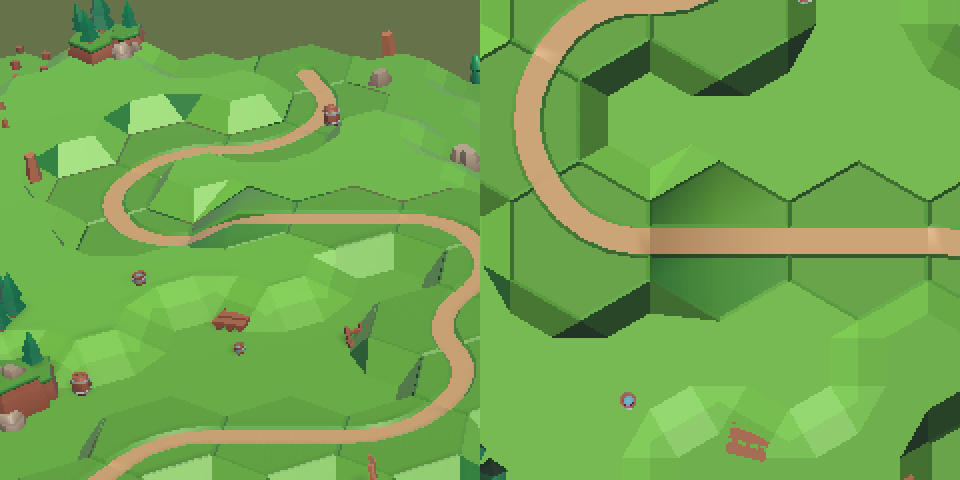
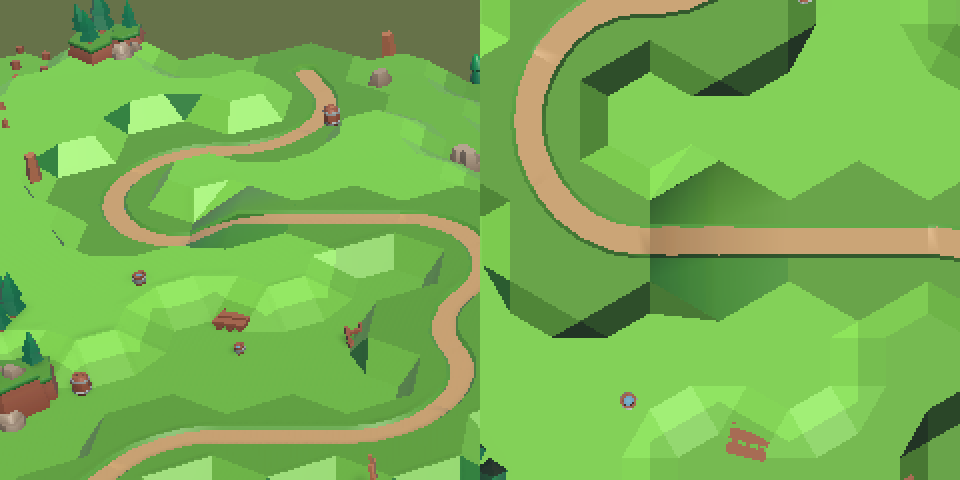
The road pieces meet their neighbours with no bevel line, and the shades take Sam's stronger ramp
Issue #348. Sam chose the stronger of the two ramps on the comparison sheet ("B, the stronger
one"): the lowest level in use at 0.70 of the grass's brightness, the highest at 1.30.

He then said: "I still dont like the black lines between the hexes". With the contour gone, the
lines were the KayKit road pieces' own rim. Every road piece's flat top stops at 1.097 of the
1.155 corner radius and a bevel drops 0.05 to the hex edge; lit at an angle, that bevel drew a
dark outline round every corridor hex and a groove between two of them. Scaling the piece out
hid the grooves but pushed the bevel past the edge, where it stood above the skin's slope down
from a raised road and showed as a dotted line in the match frame.

SeamlessPiece reshapes a copy of each piece instead: every vertex outside the flat top's hex is
pulled in beneath it, so the bevel becomes part of the side wall, and the whole piece is then
stretched so the flat top reaches the hex edge. Distances are measured hex-wise (the furthest of
the six edge normals), so a vertex on an edge and one on a corner move alike. Water has no bevel
and comes out unchanged. HexFloor builds one copy per piece kind and discards them with the floor.

EditMode 138/138, PlayMode 181/181.

diff --git a/client/Assets/Tests/PlayMode/HexFloorTests.cs b/client/Assets/Tests/PlayMode/HexFloorTests.cs
@@ -330,6 +330,49 @@ namespace Tests.PlayMode
         }
 
         [Test]
+        public void EveryPiecesFlatTopReachesTheHexEdgeAndNothingOfItPokesPast()
+        {
+            MatchRoot root = BuildPlayfield();
+            HexMap map = root.Map;
+            int pieces = 0;
+
+            for (int row = 0; row < map.Height; row++)
+            {
+                for (int column = 0; column < map.Width; column++)
+                {
+                    MeshRenderer piece = root.Floor.TileAt(column, row);
+
+                    if (piece == null)
+                    {
+                        continue;
+                    }
+
+                    Vector3[] vertices = piece.GetComponent<MeshFilter>().sharedMesh.vertices;
+                    float top = vertices.Max(vertex => vertex.y);
+                    Vector3 centre = HexGeometry.ToWorld(column, row);
+                    float reach = vertices
+                        .Where(vertex => vertex.y > top - 0.001f)
+                        .Select(vertex => piece.transform.TransformPoint(vertex) - centre)
+                        .Max(offset => new Vector2(offset.x, offset.z).magnitude);
+
+                    Assert.That(
+                        reach,
+                        Is.EqualTo(HexGeometry.Circumradius).Within(Tolerance),
+                        "the flat top of the piece at " + column + "," + row + " stops short of the hex edge");
+
+                    Assert.That(
+                        vertices.Max(vertex => SeamlessPiece.HexDistance(piece.transform.TransformPoint(vertex) - centre)),
+                        Is.LessThanOrEqualTo((HexGeometry.AcrossFlats / 2f) + Tolerance),
+                        "the piece at " + column + "," + row + " pokes past the hex edge");
+
+                    pieces++;
+                }
+            }
+
+            Assert.That(pieces, Is.GreaterThan(0), "the committed board stands no pieces");
+        }
+
+        [Test]
         public void EveryGroundCellIsDrawnInItsOwnLevelsShade()
         {
             MatchRoot root = BuildPlayfield();

diff --git a/client/Assets/View/HexFloor.cs b/client/Assets/View/HexFloor.cs
@@ -58,6 +58,8 @@ namespace View
 
         private Material[] _shades = System.Array.Empty<Material>();
 
+        private readonly Dictionary<TilePiece, Mesh> _seamless = new Dictionary<TilePiece, Mesh>();
+
         /// <summary>The map this floor was drawn from.</summary>
         public HexMap Map { get; private set; }
 
@@ -233,7 +235,7 @@ namespace View
                     cellObject.transform.SetParent(transform, worldPositionStays: false);
                     cellObject.transform.localPosition = centre + (Vector3.up * TileSet.FaceOffset);
                     cellObject.transform.localRotation = Quaternion.Euler(0f, -60f * choice.Rotation, 0f);
-                    cellObject.AddComponent<MeshFilter>().sharedMesh = tiles.MeshFor(choice.Piece);
+                    cellObject.AddComponent<MeshFilter>().sharedMesh = SeamlessMeshFor(tiles, choice.Piece);
 
                     var renderer = cellObject.AddComponent<MeshRenderer>();
                     renderer.shadowCastingMode = UnityEngine.Rendering.ShadowCastingMode.On;
@@ -245,6 +247,18 @@ namespace View
             }
 
             WorldBounds = new Bounds((min + max) * 0.5f, max - min);
+        }
+
+        private Mesh SeamlessMeshFor(TileSet tiles, TilePiece piece)
+        {
+            if (!_seamless.TryGetValue(piece, out Mesh mesh))
+            {
+                Mesh art = tiles.MeshFor(piece);
+                mesh = art != null ? SeamlessPiece.Of(art) : null;
+                _seamless[piece] = mesh;
+            }
+
+            return mesh;
         }
 
         private void Smooth(HexMap map, TileSet tiles, DressingSettings settings)
@@ -306,6 +320,11 @@ namespace View
             foreach (Material shade in _shades)
             {
                 Discard(shade);
+            }
+
+            foreach (Mesh piece in _seamless.Values)
+            {
+                Discard(piece);
             }
         }
 

diff --git a/client/Assets/View/SeamlessPiece.cs b/client/Assets/View/SeamlessPiece.cs
@@ -1,0 +1,59 @@
+using System.Linq;
+using UnityEngine;
+
+namespace View
+{
+    public static class SeamlessPiece
+    {
+        private const float TopFaceTolerance = 0.001f;
+
+        private const float HexEdge = HexGeometry.AcrossFlats / 2f;
+
+        public static Mesh Of(Mesh art)
+        {
+            Mesh piece = Object.Instantiate(art);
+            piece.name = art.name + " (seamless)";
+
+            Vector3[] vertices = piece.vertices;
+
+            if (vertices.Length == 0)
+            {
+                return piece;
+            }
+
+            float top = vertices.Max(vertex => vertex.y);
+            float topFaceEdge = vertices
+                .Where(vertex => vertex.y > top - TopFaceTolerance)
+                .Max(HexDistance);
+
+            for (int index = 0; index < vertices.Length; index++)
+            {
+                float distance = HexDistance(vertices[index]);
+                float pulledUnderTopFace = distance > topFaceEdge ? topFaceEdge / distance : 1f;
+                float stretchedToHexEdge = HexEdge / topFaceEdge;
+
+                vertices[index] = Spread(vertices[index], pulledUnderTopFace * stretchedToHexEdge);
+            }
+
+            piece.vertices = vertices;
+            piece.RecalculateBounds();
+
+            return piece;
+        }
+
+        public static float HexDistance(Vector3 point)
+        {
+            float furthest = 0f;
+
+            for (int edge = 0; edge < 6; edge++)
+            {
+                float radians = (edge + 0.5f) * (Mathf.PI / 3f);
+                furthest = Mathf.Max(furthest, (point.x * Mathf.Sin(radians)) + (point.z * Mathf.Cos(radians)));
+            }
+
+            return furthest;
+        }
+
+        private static Vector3 Spread(Vector3 point, float by) => new Vector3(point.x * by, point.y, point.z * by);
+    }
+}

diff --git a/client/Assets/View/SceneFraming.cs b/client/Assets/View/SceneFraming.cs
@@ -162,9 +162,9 @@ namespace View
         /// </summary>
         public static Color BackgroundColor => new Color(0.11f, 0.13f, 0.16f, 1f);
 
-        public const float LowestGroundShade = 0.85f;
+        public const float LowestGroundShade = 0.70f;
 
-        public const float HighestGroundShade = 1.15f;
+        public const float HighestGroundShade = 1.30f;
 
         public static float GroundShade(int level, int lowest, int highest) =>
             highest == lowest
